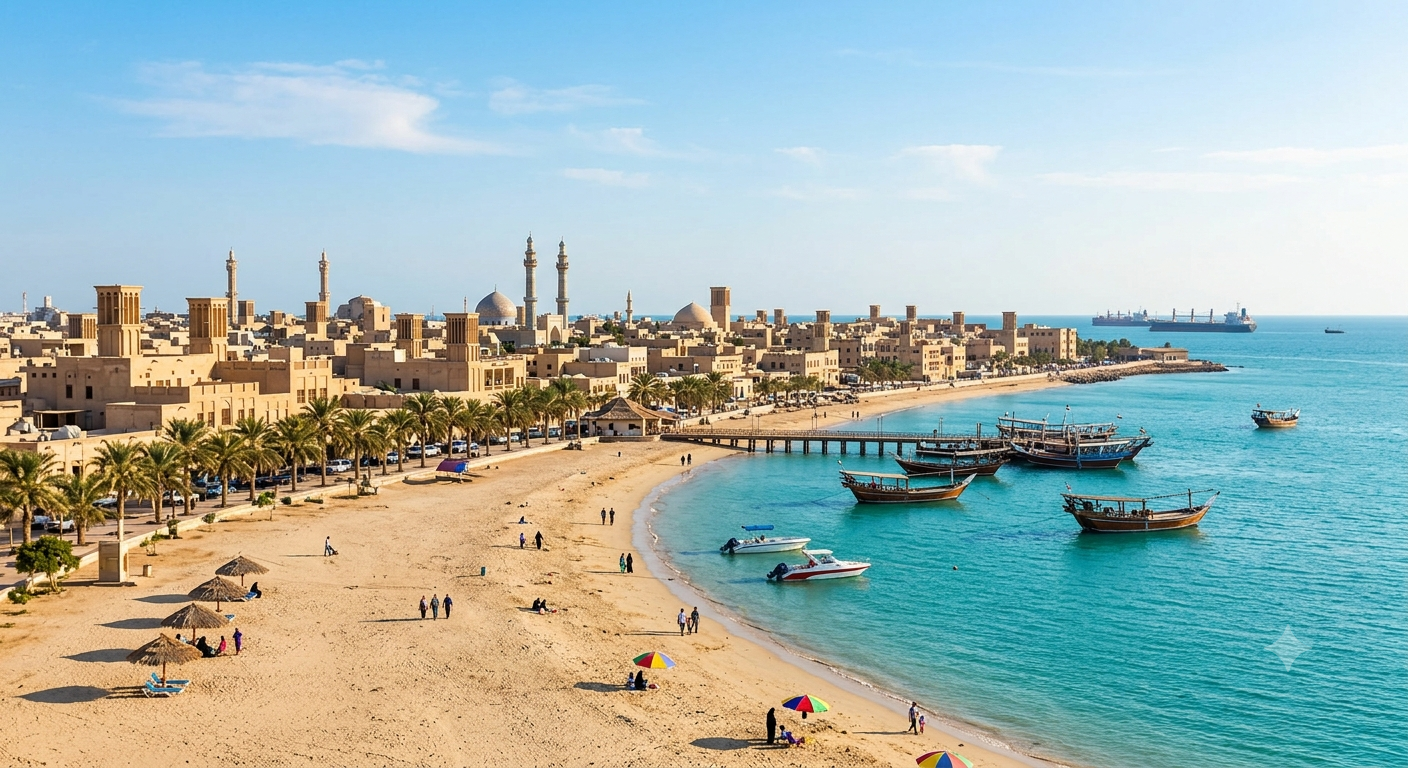
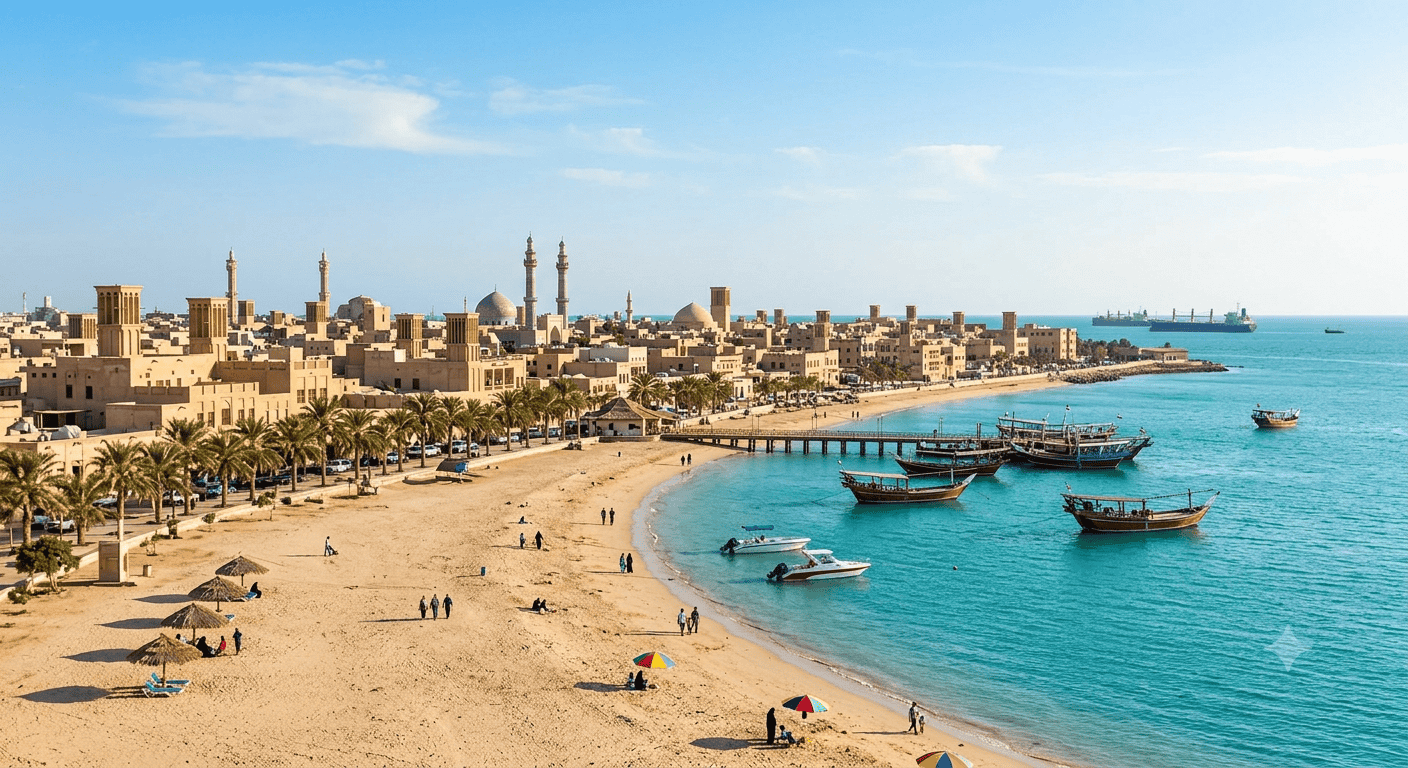
fix: image filter and size

diff --git a/src/components/shared/header/hero-image.tsx b/src/components/shared/header/hero-image.tsx
@@ -22,15 +22,16 @@ export default function HeroImage() {
                 duration: 0.9,
                 ease: "easeOut",
             }}
-            className="absolute w-full h-screen left-0 top-0 bottom-10 -z-10"
+            className="absolute w-full h-screen left-0 top-0 bottom-10 -z-30"
         >
+            <div className="absolute size-full bg-black opacity-10 -z-10"></div>
             <Image
                 priority={true}
                 src={bandar_abas_ai}
                 width={1000}
                 height={1000}
                 alt="hero"
-                className="object-cover size-full"
+                className="relative object-cover size-full blur-[2.5px] -z-20"
                 onLoad={() => setLoaded(true)}
             />
         </motion.div>

diff --git a/src/app/layout.tsx b/src/app/layout.tsx
@@ -7,8 +7,13 @@ const IranYekan = localFont({
     {
       path: '../../public/fonts/iranyekan/iranyekanwebregular.woff2',
       weight: '400',
-      style: 'regular'
-    }
+      style: 'normal'
+    },
+    {
+      path: '../../public/fonts/iranyekan/iranyekanwebbold.woff2',
+      weight: '600',
+      style: 'normal'
+    },
   ]
 })
 
@@ -29,7 +34,10 @@ export default function RootLayout({
       dir="rtl"
       className={`${IranYekan.className} min-h-dvh antialiased`}
     >
-      <body className="min-h-dvh flex flex-col">{children}</body>
+      <body
+        className="min-h-dvh flex flex-col pt-8 px-48 max-lg:px-6 relative mx-auto max-w-desktop w-full">
+        {children}
+      </body>
     </html>
   );
 }

diff --git a/src/components/shared/hero-section/hero-section.tsx b/src/components/shared/hero-section/hero-section.tsx
@@ -1,0 +1,10 @@
+export default function HeroSection() {
+    return (
+        <div className="mt-56 max-w-135 w-full max-md:text-center">
+            <p className="text-5xl font-semibold max-md:text-3xl">شهر های جنوب ایران</p>
+            <p className="mt-4 max-md:mt-3 leading-9 max-md:text-sm">
+                جایی که ایران باستان با روح گرم ساحلی تلاقی میکند. دریا را از شهرهای بندر و باغ های شاعرانه تا جزایر رنگین کمانی و دژهای کویری دنبال کنید.
+            </p>
+        </div>
+    )
+}

diff --git a/src/app/page.tsx b/src/app/page.tsx
@@ -1,11 +1,13 @@
 import Header from "@/components/shared/header/header";
 import HeroImage from "@/components/shared/header/hero-image";
+import HeroSection from "@/components/shared/hero-section/hero-section";
 
 export default function Home() {
   return (
-    <div className="relative mx-auto max-w-desktop w-full pt-8 px-16">
+    <div>
       <HeroImage />
       <Header />
+      <HeroSection />
     </div>
   );
 }
